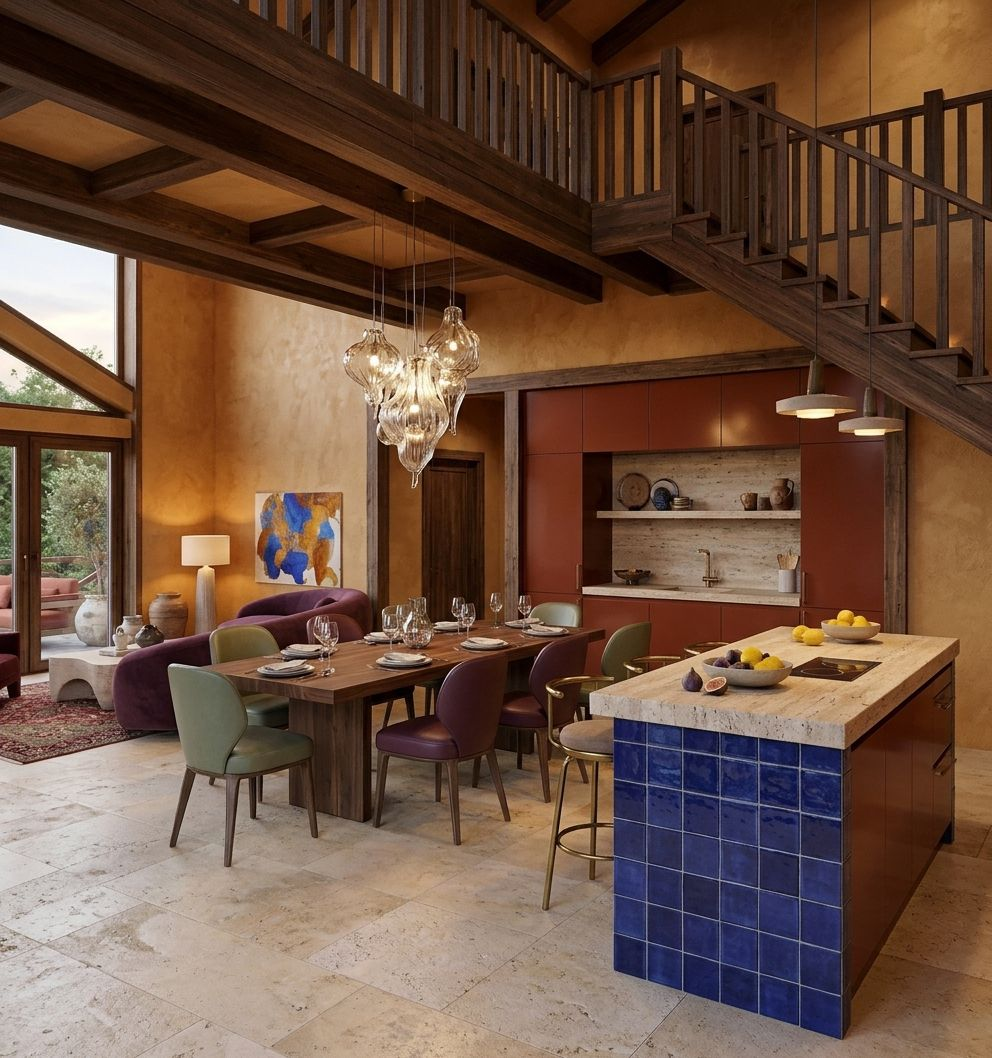
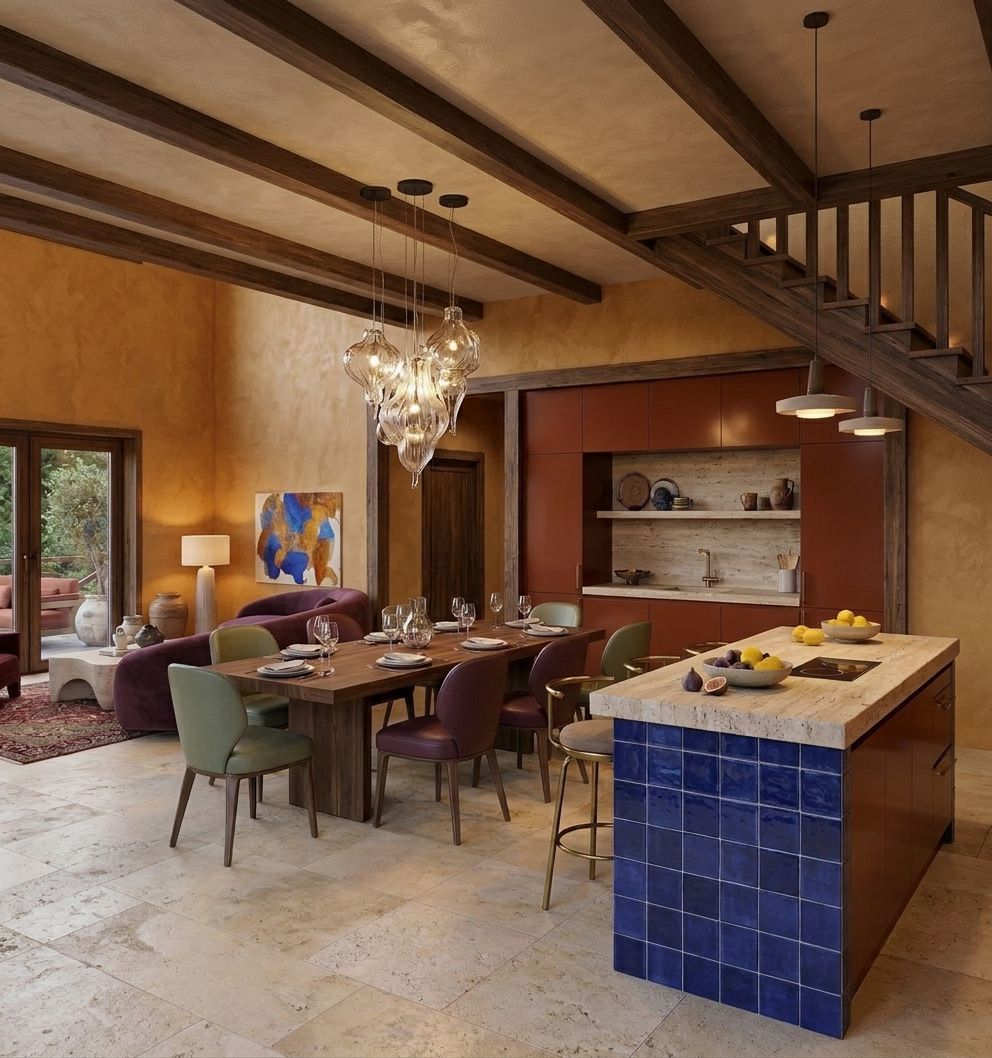
Add final renders folder and updated concept

diff --git a/Lavanda Hills — визуализации/Концепция (страница)/index.html b/Lavanda Hills — визуализации/Концепция (страница)/index.html
@@ -1,0 +1,259 @@
+<title>Lavanda Hills</title>
+<meta name="claude:viewport-fit-sides" content="cover">
+<link rel="preconnect" href="https://fonts.googleapis.com">
+<link rel="stylesheet" href="https://fonts.googleapis.com/css2?family=Unbounded:wght@400;600;800&family=Manrope:wght@400;500;700&display=swap">
+<style>
+/* Layout: editorial scroll — arched hero image, then bands per floor; room colour scenarios as a three-card row */
+:root{
+  --bg:#FAF6F2; --surface:#F1E8E2; --fg:#2B1F26; --muted:#6E5C63; --line:#E4D7D0;
+  --lavender:#A28BC9; --plum:#5E2A4A; --clay:#B4552F; --ochre:#D39A2C; --sage:#8D9A73; --cobalt:#25408F; --wine:#7A1F2E; --sand:#E8D7BF;
+  --accent:#6D3A63;
+  --display:"Unbounded",system-ui,sans-serif; --body:"Manrope",system-ui,-apple-system,sans-serif;
+}
+@media (prefers-color-scheme:dark){:root:not([data-theme="light"]){--bg:#1D1519;--surface:#291E24;--fg:#F4ECEE;--muted:#B9A8AF;--line:#3B2D34;--accent:#C9A6DA;color-scheme:dark}}
+:root[data-theme="dark"]{--bg:#1D1519;--surface:#291E24;--fg:#F4ECEE;--muted:#B9A8AF;--line:#3B2D34;--accent:#C9A6DA;color-scheme:dark}
+*{box-sizing:border-box}
+body{background:var(--bg);color:var(--fg);font-family:var(--body);font-size:17px;line-height:1.6}
+.wrap{max-width:1180px;margin:0 auto;padding-left:max(16px,env(safe-area-inset-left,0px));padding-right:max(16px,env(safe-area-inset-right,0px))}
+h1,h2,h3{font-family:var(--display);text-wrap:balance;line-height:1.15;margin:0}
+h2{font-size:clamp(26px,3.6vw,40px);font-weight:600}
+h3{font-size:18px;font-weight:600}
+p{margin:0;max-width:65ch}
+.eyebrow{font-size:12px;letter-spacing:.14em;text-transform:uppercase;color:var(--accent);font-weight:700}
+section{padding-block:72px;border-top:1px solid var(--line)}
+.stack{display:flex;flex-direction:column;gap:16px}
+img{display:block;max-width:100%;height:auto;border-radius:6px}
+figure{margin:0;display:flex;flex-direction:column;gap:8px;min-width:0}
+figcaption{font-size:14px;color:var(--muted)}
+
+.hero{padding-block:40px 64px}
+.hero-grid{display:grid;grid-template-columns:1fr 1.1fr;gap:48px;align-items:center}
+.hero h1{font-size:clamp(44px,7vw,92px);font-weight:800;letter-spacing:-.02em}
+.hero h1 span{color:var(--lavender)}
+.lead{font-size:20px;color:var(--muted)}
+.facts{display:flex;flex-wrap:wrap;gap:8px;margin-top:8px}
+.facts span{font-size:14px;padding:6px 12px;border-radius:999px;background:var(--surface);font-variant-numeric:tabular-nums}
+.hero img{aspect-ratio:1/1.05;object-fit:cover;width:100%;border-radius:240px 240px 6px 6px}
+
+.palette{display:grid;grid-template-columns:repeat(8,1fr);gap:10px;margin-top:32px}
+.sw{display:flex;flex-direction:column;gap:6px;min-width:0}
+.sw i{display:block;aspect-ratio:3/4;border-radius:120px 120px 4px 4px}
+.sw b{font-size:14px}
+.sw small{font-size:12px;color:var(--muted);line-height:1.35}
+
+.two{display:grid;grid-template-columns:1fr 1fr;gap:40px;align-items:start}
+.rules{display:grid;grid-template-columns:repeat(2,1fr);gap:20px 32px}
+.rules div{display:flex;flex-direction:column;gap:4px;padding-top:12px;border-top:2px solid var(--plum)}
+.rules p{font-size:15px;color:var(--muted)}
+.chips{display:flex;flex-wrap:wrap;gap:8px}
+.chips span{font-size:14px;padding:6px 12px;border:1px solid var(--line);border-radius:999px}
+.chips.no span{text-decoration:line-through;color:var(--muted)}
+
+.pair{display:grid;grid-template-columns:1fr 1fr;gap:20px;margin-top:28px}
+.trio{display:grid;grid-template-columns:repeat(3,1fr);gap:20px;margin-top:20px}
+.trio img,.pair.crop img{aspect-ratio:4/5;object-fit:cover;width:100%}
+
+.rooms{display:grid;grid-template-columns:repeat(3,1fr);gap:24px;margin-top:32px}
+.room{display:flex;flex-direction:column;gap:12px;min-width:0}
+.room img{aspect-ratio:4/5;object-fit:cover;width:100%;border-radius:160px 160px 6px 6px}
+.dots{display:flex;gap:6px}
+.dots i{width:22px;height:22px;border-radius:50%;border:2px solid var(--bg);box-shadow:0 0 0 1px var(--line)}
+.room p{font-size:15px;color:var(--muted)}
+
+.guest{display:grid;grid-template-columns:repeat(3,1fr);gap:24px;margin-top:28px}
+.guest div{display:flex;flex-direction:column;gap:6px}
+.guest p{font-size:15px;color:var(--muted)}
+
+.note{background:var(--surface);border-radius:8px;padding:24px;display:flex;flex-direction:column;gap:10px}
+.note ul{margin:0;padding-left:20px;display:flex;flex-direction:column;gap:6px;font-size:15px}
+footer{padding-block:40px;font-size:13px;color:var(--muted);border-top:1px solid var(--line)}
+
+@media (max-width:860px){
+  .hero-grid,.two,.pair{grid-template-columns:1fr}
+  .rooms,.guest,.trio{grid-template-columns:1fr}
+  .palette{grid-template-columns:repeat(4,1fr)}
+  .rules{grid-template-columns:1fr}
+  section{padding-block:48px}
+}
+</style>
+
+<header class="hero wrap">
+  <div class="hero-grid">
+    <div class="stack">
+      <div class="eyebrow">Дизайн-концепция · вилла-отель</div>
+      <h1>Lavanda <span>Hills</span></h1>
+      <p class="lead">Luxury Mediterranean Eclectic. Роскошь не через сдержанность и бежевый, а через цвет, фактуру, дизайнерскую мебель, искусство и вид на лавандовые холмы.</p>
+      <div class="facts"><span>3 номера с санузлами</span><span>2 этажа · 144 м²</span><span>3 приватных фурако</span><span>аренда номером или целиком</span></div>
+    </div>
+    <img src="img/lobby.jpg" alt="Гостиная: сливовый скульптурный диван, винное кресло, травертиновый столик, абстрактная картина, вид на лавандовые поля">
+  </div>
+</header>
+
+<section class="wrap">
+  <div class="stack">
+    <div class="eyebrow">Архитектура и территория</div>
+    <h2>Вилла среди холмов</h2>
+    <p>Архитектура без изменений: тёмная вертикальная облицовка, дерево, панорамное остекление первого этажа, терраса на опорах. Цвет концепции виден через стекло и в ландшафте: лаванда растёт на части участка, рядом сухие травы, оливы, кипарисы и розмарин.</p>
+  </div>
+  <figure class="wide"><img src="img/ext-hillside.jpg" alt="Вилла на склоне среди лаванды, олив и кипарисов, вид на горы"><figcaption>Вилла на участке, тёплый вечерний свет</figcaption></figure>
+  <div class="pair">
+    <figure><img src="img/ext-front-day.jpg" alt="Главный фасад днём"><figcaption>Главный фасад днём: через стекло видна гостиная и цветные номера</figcaption></figure>
+    <figure><img src="img/ext-front-evening.jpg" alt="Главный фасад вечером"><figcaption>Тот же фасад вечером: свет в интерьере и ландшафтная подсветка</figcaption></figure>
+  </div>
+  <div class="pair">
+    <figure><img src="img/ext-rear-furako.jpg" alt="Задняя веранда второго этажа с тремя фурако"><figcaption>Веранда 9 × 3 м с тремя фурако. По плану без крыши, поэтому стеклянная кровля из референса убрана</figcaption></figure>
+    <figure><img src="img/ext-aerial.jpg" alt="Вид сверху на виллу и территорию"><figcaption>Вид сверху. Расстановка фурако здесь не совпадает с планом, этот кадр только для настроения территории</figcaption></figure>
+  </div>
+</section>
+
+<section class="wrap">
+  <div class="two">
+    <div class="stack">
+      <div class="eyebrow">Идея</div>
+      <h2>Вечный отпуск в европейском бутик-отеле</h2>
+    </div>
+    <div class="stack">
+      <p>Современная средиземноморская эстетика с итальянскими и испанскими интонациями. Без привязки к одному стилю: современная мебель, винтаж, дизайнерские объекты и авторская керамика собраны так, будто их привозили из поездок.</p>
+      <p>Цвет берём из пейзажа: лаванда и слива полей, жжёная глина земли, охра солнца, шалфей и олива холмов, кобальт вечерних гор. Тёплый молочный и песочный держат баланс, чтобы палитра оставалась благородной, а не кислотной.</p>
+    </div>
+  </div>
+
+  <div class="palette" aria-label="Палитра">
+    <div class="sw"><i style="background:var(--lavender)"></i><b>Лаванда</b><small>номер 1, ванная</small></div>
+    <div class="sw"><i style="background:var(--plum)"></i><b>Слива</b><small>бархат, гостиная</small></div>
+    <div class="sw"><i style="background:var(--clay)"></i><b>Жжёная глина</b><small>номер 2, кухня</small></div>
+    <div class="sw"><i style="background:var(--ochre)"></i><b>Охра</b><small>стены лобби, акценты</small></div>
+    <div class="sw"><i style="background:var(--sage)"></i><b>Шалфей</b><small>стулья, веранды</small></div>
+    <div class="sw"><i style="background:var(--cobalt)"></i><b>Кобальт</b><small>номер 3, остров</small></div>
+    <div class="sw"><i style="background:var(--wine)"></i><b>Вино</b><small>ковры, бархат</small></div>
+    <div class="sw"><i style="background:var(--sand)"></i><b>Песок</b><small>травертин, баланс</small></div>
+  </div>
+</section>
+
+<section class="wrap">
+  <div class="two">
+    <div class="stack">
+      <div class="eyebrow">Принципы</div>
+      <h2>Ярко, дорого, без визуального шума</h2>
+      <div class="chips">
+        <span>травертин</span><span>таделакт и известковая штукатурка</span><span>орех и дуб</span><span>бархат</span><span>лён</span><span>букле</span><span>глазурованная керамика ручной работы</span><span>латунь</span><span>алебастр</span><span>муранское стекло</span>
+      </div>
+      <div class="eyebrow" style="margin-top:12px">Исключаем</div>
+      <div class="chips no">
+        <span>ротанг и макраме</span><span>прованс и цветочные принты</span><span>лаванда в каждом предмете</span><span>серый и белый как основа</span><span>точечные светильники как единственный свет</span>
+      </div>
+    </div>
+    <div class="rules">
+      <div><h3>Цветовой сценарий на комнату</h3><p>У каждого номера своя пара цветов. Общие зоны собирают все цвета, но на тёплом охристом фоне.</p></div>
+      <div><h3>Цвет живёт в фактуре</h3><p>Штукатурка, бархат, глазурь и камень дают глубину. Ровной краски и глянцевого пластика нет.</p></div>
+      <div><h3>Один скульптурный предмет</h3><p>В каждой зоне есть главный объект: изогнутый диван, стеклянная люстра, каменная ванна. Остальное ему не мешает.</p></div>
+      <div><h3>Свет слоями</h3><p>Алебастровые бра, муранские лампы, напольные «грибы», фонари на верандах. Вечером свет подчёркивает фактуры.</p></div>
+    </div>
+  </div>
+</section>
+
+<section class="wrap">
+  <div class="two">
+    <div class="stack">
+      <div class="eyebrow">1 этаж · 72 м²</div>
+      <h2>Гостиная, кухня и общая веранда</h2>
+      <p>Гостиная на 57,7 м² — главное общественное пространство. Лаунж со скульптурным сливовым диваном, столовая с длинным столом из ореха и стеклянной люстрой, кухонный остров в кобальтовой керамике. Через панорамное остекление гостиная выходит на веранду в 45 м² с очагом и столом под перголой.</p>
+    </div>
+    <figure><img src="img/iso-1.jpg" alt="3D-план 1 этажа в новой концепции"><figcaption>3D-план 1 этажа: расстановка по исходной планировке</figcaption></figure>
+  </div>
+  <div class="trio">
+    <figure><img src="img/lobby.jpg" alt="Лаунж-зона гостиной"><figcaption>Лаунж</figcaption></figure>
+    <figure><img src="img/kitchen.jpg" alt="Кухня и обеденная зона"><figcaption>Кухня и столовая</figcaption></figure>
+    <figure><img src="img/veranda-common.jpg" alt="Общая веранда первого этажа вечером"><figcaption>Общая веранда вечером</figcaption></figure>
+  </div>
+  <div class="pair crop">
+    <figure><img src="img/vestibule.jpg" alt="Тамбур с гардеробом"><figcaption>Тамбур с гардеробом, 7 м²: шалфейная известь, ореховый гардероб, скамья из винного бархата</figcaption></figure>
+    <figure><img src="img/bath-ground.jpg" alt="Санузел первого этажа"><figcaption>Санузел первого этажа, 3,0 × 2,0 м: охристый зеллиж, травертин, латунь</figcaption></figure>
+  </div>
+</section>
+
+<section class="wrap">
+  <div class="two">
+    <figure><img src="img/iso-2.jpg" alt="3D-план 2 этажа в новой концепции"><figcaption>3D-план 2 этажа: три цветовых сценария и приватные веранды с фурако</figcaption></figure>
+    <div class="stack">
+      <div class="eyebrow">2 этаж · 72 м²</div>
+      <h2>Три номера с разным характером</h2>
+      <p>Номера отличаются не только текстилем. Меняются цвет и фактура стен, форма изголовья, кресло, свет и керамика в санузле. Коридор нейтральный, песочный: двери номеров окрашены в цвет своего номера и сразу подсказывают характер.</p>
+      <figure><img src="img/corridor.jpg" alt="Коридор второго этажа с цветными дверями номеров" style="aspect-ratio:16/10;object-fit:cover;width:100%"><figcaption>Коридор: винная дорожка, алебастровые бра, двери в цвет номеров</figcaption></figure>
+    </div>
+  </div>
+
+  <div class="rooms">
+    <article class="room">
+      <img src="img/room-1.jpg" alt="Номер 1: лавандовые стены, сливовое изголовье, охристое кресло">
+      <div class="dots"><i style="background:var(--lavender)"></i><i style="background:var(--plum)"></i><i style="background:var(--ochre)"></i></div>
+      <h3>Номер 1 · «Слива и лаванда»</h3>
+      <p>Мастер-номер на 23,1 м². Лавандовая штукатурка, стёганое изголовье из сливового бархата, охристое кресло из букле, травертиновые тумбы с муранскими лампами.</p>
+    </article>
+    <article class="room">
+      <img src="img/room-2.jpg" alt="Номер 2: стены цвета жжёной глины, шалфейное изголовье">
+      <div class="dots"><i style="background:var(--clay)"></i><i style="background:var(--sage)"></i></div>
+      <h3>Номер 2 · «Глина и шалфей»</h3>
+      <p>Самый тёплый, на 16,1 м². Стены цвета жжёной глины, округлое шалфейное изголовье, навесной стол из массива, керамическое бра.</p>
+    </article>
+    <article class="room">
+      <img src="img/room-3.jpg" alt="Номер 3: кобальтовые стены, винное изголовье, золотое зеркало">
+      <div class="dots"><i style="background:var(--cobalt)"></i><i style="background:var(--wine)"></i></div>
+      <h3>Номер 3 · «Кобальт и вино»</h3>
+      <p>Самый драматичный, на 17,0 м². Кобальтовая штукатурка, изголовье из винного бархата, алебастровые бра и винтажное зеркало в золотой раме.</p>
+    </article>
+  </div>
+</section>
+
+<section class="wrap">
+  <div class="stack">
+    <div class="eyebrow">Санузлы номеров</div>
+    <h2>Каждый в цвете своего номера</h2>
+  </div>
+  <div class="trio">
+    <figure><img src="img/bath-1.jpg" alt="Санузел номера 1: каменная ванна, сливовая плитка, травертин"><figcaption>Номер 1: каменная ванна, сливовая глазурь, травертин</figcaption></figure>
+    <figure><img src="img/bath-2.jpg" alt="Санузел номера 2: шалфейная плитка, терракотовая штукатурка"><figcaption>Номер 2: шалфейная плитка, терракотовый таделакт, орех</figcaption></figure>
+    <figure><img src="img/bath-3.jpg" alt="Санузел номера 3: кобальтовый зеллиж, винная штукатурка"><figcaption>Номер 3: кобальтовый зеллиж, винный таделакт, золотое зеркало</figcaption></figure>
+  </div>
+</section>
+
+<section class="wrap">
+  <div class="stack">
+    <div class="eyebrow">Приватные веранды с фурако</div>
+    <h2>Свой спа под открытым небом</h2>
+    <p>Каждый номер выходит на свою часть веранды. Складные деревянные перегородки закрывают от соседей, фурако стоит лицом к горам. Днём это солнце и вид, вечером фонари, пар и закат.</p>
+  </div>
+  <div class="pair crop">
+    <figure><img src="img/veranda-private-day.jpg" alt="Приватная веранда с фурако днём"><figcaption>День</figcaption></figure>
+    <figure><img src="img/veranda-private.jpg" alt="Приватная веранда с фурако на закате"><figcaption>Золотой час</figcaption></figure>
+  </div>
+</section>
+
+<section class="wrap">
+  <div class="stack">
+    <div class="eyebrow">Опыт гостя</div>
+    <h2>Что заставит вернуться</h2>
+  </div>
+  <div class="guest">
+    <div><h3>Свой цвет</h3><p>Три номера с разным характером: гость выбирает настроение, а в следующий приезд хочет попробовать другое.</p></div>
+    <div><h3>Вечер в фурако</h3><p>Приватный чан, бокал вина, фонари и закат над холмами. Это главный кадр для соцсетей и главная причина бронировать.</p></div>
+    <div><h3>Место, которое хочется снимать</h3><p>Каждая зона построена вокруг скульптурного предмета и вида за окном, поэтому любой ракурс выглядит как фото из журнала.</p></div>
+  </div>
+</section>
+
+<section class="wrap">
+  <div class="two">
+    <figure><img src="img/before-facade.jpg" alt="Исходный архитектурный проект: тёмный фасад"><figcaption>Архитектура остаётся прежней: тёмный фасад, дерево, панорамное остекление</figcaption></figure>
+    <div class="note">
+      <div class="eyebrow">Статус и что учесть</div>
+      <ul>
+        <li>Источник истины — планировки 1 и 2 этажа. Где архитектурные картинки с ними расходятся, сделано по планам: над верандой с фурако крыши нет.</li>
+        <li>Потолки в гостиной и на кухне исправлены на плоские: над ними второй этаж.</li>
+        <li>Визуализации сделаны нейросетью: между кадрами мебель и детали могут немного отличаться. Для полной серии с одинаковой геометрией на всех кадрах нужна 3D-модель у визуализатора, эта концепция станет ему брифом.</li>
+        <li>Требуют доработки: вид сверху (фурако расставлены не по плану), приватная веранда на закате (стена оштукатурена, а не тёмная), лестница пока не показана отдельно.</li>
+      </ul>
+    </div>
+  </div>
+</section>
+
+<footer class="wrap">Lavanda Hills · дизайн-концепция интерьера · визуализации MeltFlex по исходным планировкам · ноябрь 2026</footer>

diff --git a/concept/index.html b/concept/index.html
@@ -90,6 +90,23 @@ footer{padding-block:40px;font-size:13px;color:var(--muted);border-top:1px solid
 </header>
 
 <section class="wrap">
+  <div class="stack">
+    <div class="eyebrow">Архитектура и территория</div>
+    <h2>Вилла среди холмов</h2>
+    <p>Архитектура без изменений: тёмная вертикальная облицовка, дерево, панорамное остекление первого этажа, терраса на опорах. Цвет концепции виден через стекло и в ландшафте: лаванда растёт на части участка, рядом сухие травы, оливы, кипарисы и розмарин.</p>
+  </div>
+  <figure class="wide"><img src="img/ext-hillside.jpg" alt="Вилла на склоне среди лаванды, олив и кипарисов, вид на горы"><figcaption>Вилла на участке, тёплый вечерний свет</figcaption></figure>
+  <div class="pair">
+    <figure><img src="img/ext-front-day.jpg" alt="Главный фасад днём"><figcaption>Главный фасад днём: через стекло видна гостиная и цветные номера</figcaption></figure>
+    <figure><img src="img/ext-front-evening.jpg" alt="Главный фасад вечером"><figcaption>Тот же фасад вечером: свет в интерьере и ландшафтная подсветка</figcaption></figure>
+  </div>
+  <div class="pair">
+    <figure><img src="img/ext-rear-furako.jpg" alt="Задняя веранда второго этажа с тремя фурако"><figcaption>Веранда 9 × 3 м с тремя фурако. По плану без крыши, поэтому стеклянная кровля из референса убрана</figcaption></figure>
+    <figure><img src="img/ext-aerial.jpg" alt="Вид сверху на виллу и территорию"><figcaption>Вид сверху. Расстановка фурако здесь не совпадает с планом, этот кадр только для настроения территории</figcaption></figure>
+  </div>
+</section>
+
+<section class="wrap">
   <div class="two">
     <div class="stack">
       <div class="eyebrow">Идея</div>
@@ -149,6 +166,10 @@ footer{padding-block:40px;font-size:13px;color:var(--muted);border-top:1px solid
     <figure><img src="img/kitchen.jpg" alt="Кухня и обеденная зона"><figcaption>Кухня и столовая</figcaption></figure>
     <figure><img src="img/veranda-common.jpg" alt="Общая веранда первого этажа вечером"><figcaption>Общая веранда вечером</figcaption></figure>
   </div>
+  <div class="pair crop">
+    <figure><img src="img/vestibule.jpg" alt="Тамбур с гардеробом"><figcaption>Тамбур с гардеробом, 7 м²: шалфейная известь, ореховый гардероб, скамья из винного бархата</figcaption></figure>
+    <figure><img src="img/bath-ground.jpg" alt="Санузел первого этажа"><figcaption>Санузел первого этажа, 3,0 × 2,0 м: охристый зеллиж, травертин, латунь</figcaption></figure>
+  </div>
 </section>
 
 <section class="wrap">
@@ -185,9 +206,26 @@ footer{padding-block:40px;font-size:13px;color:var(--muted);border-top:1px solid
 </section>
 
 <section class="wrap">
-  <div class="pair crop" style="margin-top:0">
-    <figure><img src="img/bath-1.jpg" alt="Санузел номера 1: каменная ванна, сливовая плитка, травертин"><figcaption>Санузел номера 1: ванна из камня, сливовая глазурованная плитка, травертин, алебастр и латунь</figcaption></figure>
-    <figure><img src="img/veranda-private.jpg" alt="Приватная веранда с фурако на закате"><figcaption>Приватная веранда: фурако, скульптурные кресла, складная перегородка для приватности, вид на лаванду и горы</figcaption></figure>
+  <div class="stack">
+    <div class="eyebrow">Санузлы номеров</div>
+    <h2>Каждый в цвете своего номера</h2>
+  </div>
+  <div class="trio">
+    <figure><img src="img/bath-1.jpg" alt="Санузел номера 1: каменная ванна, сливовая плитка, травертин"><figcaption>Номер 1: каменная ванна, сливовая глазурь, травертин</figcaption></figure>
+    <figure><img src="img/bath-2.jpg" alt="Санузел номера 2: шалфейная плитка, терракотовая штукатурка"><figcaption>Номер 2: шалфейная плитка, терракотовый таделакт, орех</figcaption></figure>
+    <figure><img src="img/bath-3.jpg" alt="Санузел номера 3: кобальтовый зеллиж, винная штукатурка"><figcaption>Номер 3: кобальтовый зеллиж, винный таделакт, золотое зеркало</figcaption></figure>
+  </div>
+</section>
+
+<section class="wrap">
+  <div class="stack">
+    <div class="eyebrow">Приватные веранды с фурако</div>
+    <h2>Свой спа под открытым небом</h2>
+    <p>Каждый номер выходит на свою часть веранды. Складные деревянные перегородки закрывают от соседей, фурако стоит лицом к горам. Днём это солнце и вид, вечером фонари, пар и закат.</p>
+  </div>
+  <div class="pair crop">
+    <figure><img src="img/veranda-private-day.jpg" alt="Приватная веранда с фурако днём"><figcaption>День</figcaption></figure>
+    <figure><img src="img/veranda-private.jpg" alt="Приватная веранда с фурако на закате"><figcaption>Золотой час</figcaption></figure>
   </div>
 </section>
 
@@ -209,10 +247,10 @@ footer{padding-block:40px;font-size:13px;color:var(--muted);border-top:1px solid
     <div class="note">
       <div class="eyebrow">Статус и что учесть</div>
       <ul>
-        <li>Это концепт-визуализации для согласования стиля, а не финальные фотореалистичные рендеры.</li>
-        <li>В видах гостиной и кухни нейросеть нарисовала скатный потолок и антресоль. По проекту над гостиной второй этаж и потолок плоский, около 3,3 м. В финальной серии это нужно исправить.</li>
-        <li>Веранда в рендере пристроена к оштукатуренной стене с черепицей, а по проекту фасад тёмный. Для финала нужно взять за основу архитектурные изображения.</li>
-        <li>Ещё не проработаны тамбур, санузел 1 этажа, санузлы номеров 2 и 3, лестница.</li>
+        <li>Источник истины — планировки 1 и 2 этажа. Где архитектурные картинки с ними расходятся, сделано по планам: над верандой с фурако крыши нет.</li>
+        <li>Потолки в гостиной и на кухне исправлены на плоские: над ними второй этаж.</li>
+        <li>Визуализации сделаны нейросетью: между кадрами мебель и детали могут немного отличаться. Для полной серии с одинаковой геометрией на всех кадрах нужна 3D-модель у визуализатора, эта концепция станет ему брифом.</li>
+        <li>Требуют доработки: вид сверху (фурако расставлены не по плану), приватная веранда на закате (стена оштукатурена, а не тёмная), лестница пока не показана отдельно.</li>
       </ul>
     </div>
   </div>
